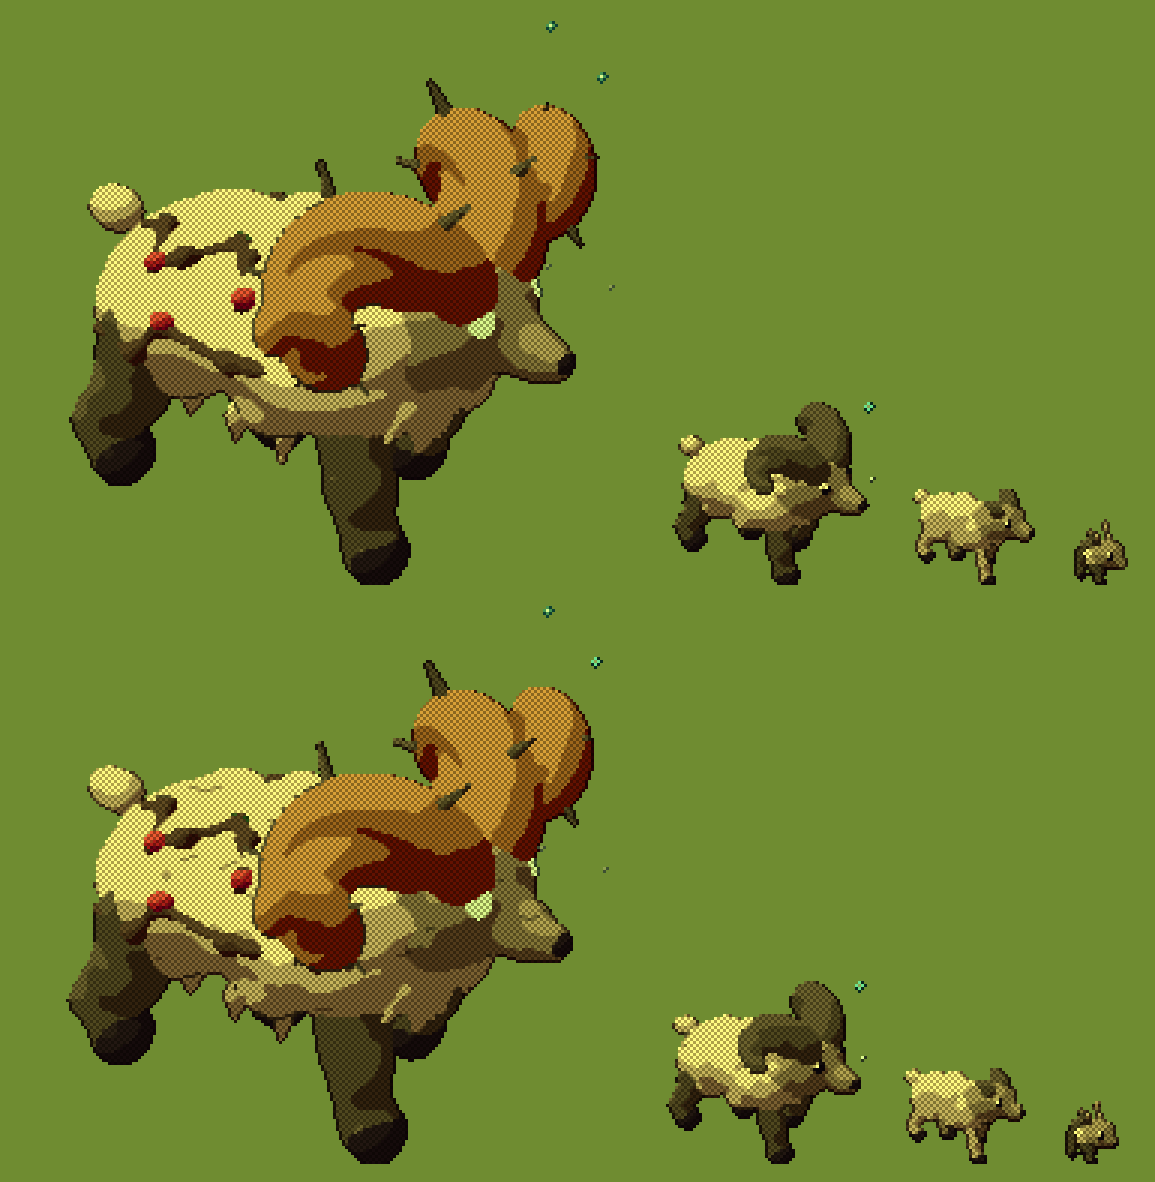
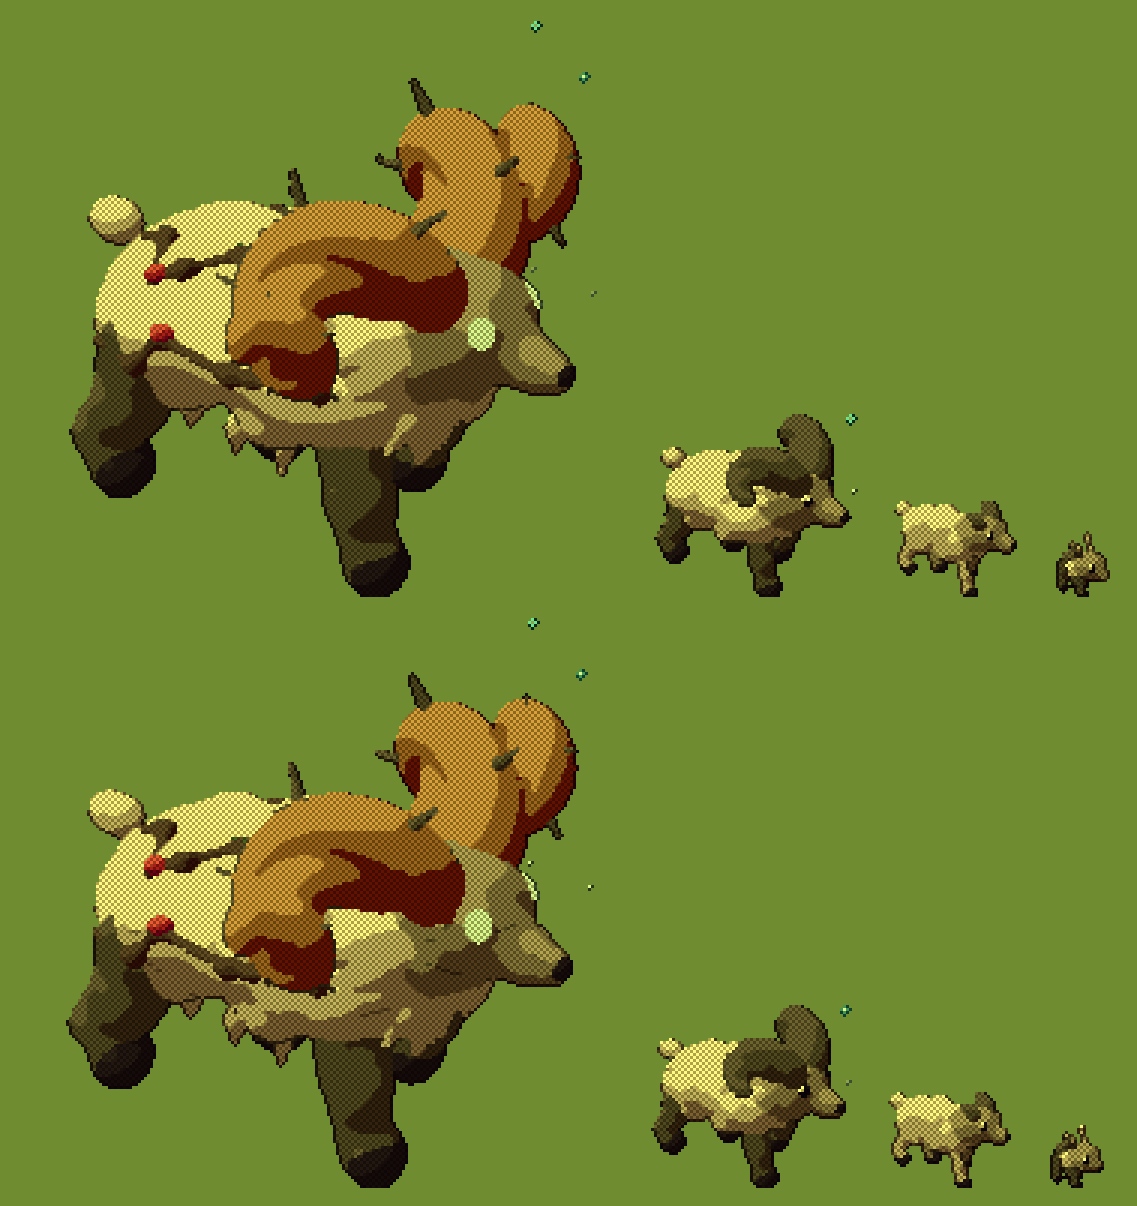
Ram legend: its horns rooted further back, clear of its brows
The art check's expressions: the legend ram's huge horns hid its angry and
happy brows. The twisted horn's base takes back, up and wide (in head radii).

Claude-Session: https://claude.ai/code/session_01CCJ1G3QaUxYK9jSu9176NM

diff --git a/art/creatures3d.js b/art/creatures3d.js
@@ -310,7 +310,7 @@ export function quad3d(S, level, frame, st, facing = "towards") {
   m.part = "head";
   // ---- horns, antlers, tusks ----
   const hornTips = [];
-  if (q.horns === "twist") for (const side of [-1, 1]) hornTips.push(horn3d(m, [H[0] - hr * .05, H[1] + hr * .6, side * hr * .45], side, { ...q.horn, length: (q.horn?.length ?? 2) * hr, r: (q.horn?.r ?? .3) * hr }));
+  if (q.horns === "twist") for (const side of [-1, 1]) hornTips.push(horn3d(m, [H[0] - hr * (.05 + (q.horn?.back ?? 0)), H[1] + hr * (.6 + (q.horn?.up ?? 0)), side * hr * (.45 + (q.horn?.wide ?? 0))], side, /* back, up, wide: its base moved, in head radii (clear of the brows) */ { ...q.horn, length: (q.horn?.length ?? 2) * hr, r: (q.horn?.r ?? .3) * hr }));
   else if (q.horns) for (const side of [-1, 1]) { const k = has("hornsGlow") ? 1.5 : sz("horns"), pts = []; for (let i = 0; i <= 8; i++) { const a = .3 - i / 8 * Math.PI * 1.6, r = hr * .65 * k * (1 - .45 * i / 8); pts.push([H[0] - hr * .1 + Math.cos(a) * r, H[1] + hr * .45 + Math.sin(a) * r, side * (hr * .6 + i * .015)]); pts[i].push(hr * .2 * k * (1 - .6 * i / 8)); } m.chain(pts, has("hornsGlow") ? M.MAGIC : M.ACCENT, { group: 13 }); }
   if (q.antlers || has("jackalope")) for (const side of [-1, 1]) antlers3d(m, q, [H[0] - hr * .05, H[1] + hr * .75, side * hr * .4], side, sz("antlers"), has);
   const tuskTips = [];

diff --git a/art/genome/species.js b/art/genome/species.js
@@ -91,7 +91,7 @@ export const GENOMES = [
       { body: { len: .5, hr: .29 }, parts: { ears: { kind: "small", size: 1.25 }, horns: false }, coat: { legMat: "BODY3" } },
       { parts: { horns: "twist" }, head: { horn: { length: 1.1, r: .38, curl: .7, twist: 0, ridges: 2, segs: 8, out: .55, ease: 1, mat: "BODY3" } } },
       { body: { bw: .36, legW: 1.1 }, coat: { legMat: "BODY3" }, parts: { horns: "twist" }, head: { horn: { length: 3.4, r: .62, curl: 1.75, twist: 0, ridges: 1, segs: 26, out: .7, ease: 1, tighten: .6, mat: "BODY3" } }, features: [{ kind: "ruff", size: .2, count: 14, mat: "BODY" }] },
-      { body: { bw: .4, legW: 1.2 }, coat: { legMat: "BODY3" }, parts: { horns: "twist" }, head: { horn: { length: 6, r: .7, curl: 3.3, twist: 0, ridges: 1, segs: 44, out: .8, ease: 1, tighten: .72, mat: "WOOD", thorns: 9 } }, features: [
+      { body: { bw: .4, legW: 1.2 }, coat: { legMat: "BODY3" }, parts: { horns: "twist" }, head: { horn: { length: 6, r: .7, curl: 3.3, twist: 0, ridges: 1, segs: 44, out: .8, ease: 1, tighten: .72, mat: "WOOD", thorns: 9, back: .4, wide: .15 } }, features: [
         { kind: "ruff", size: .28, count: 18, mat: "BODY" },
         { kind: "mane", belly: true, from: .1, to: .95, height: .2, count: 14, lean: .2, mat: "BODY" },
         { kind: "brambles", count: 4 },
